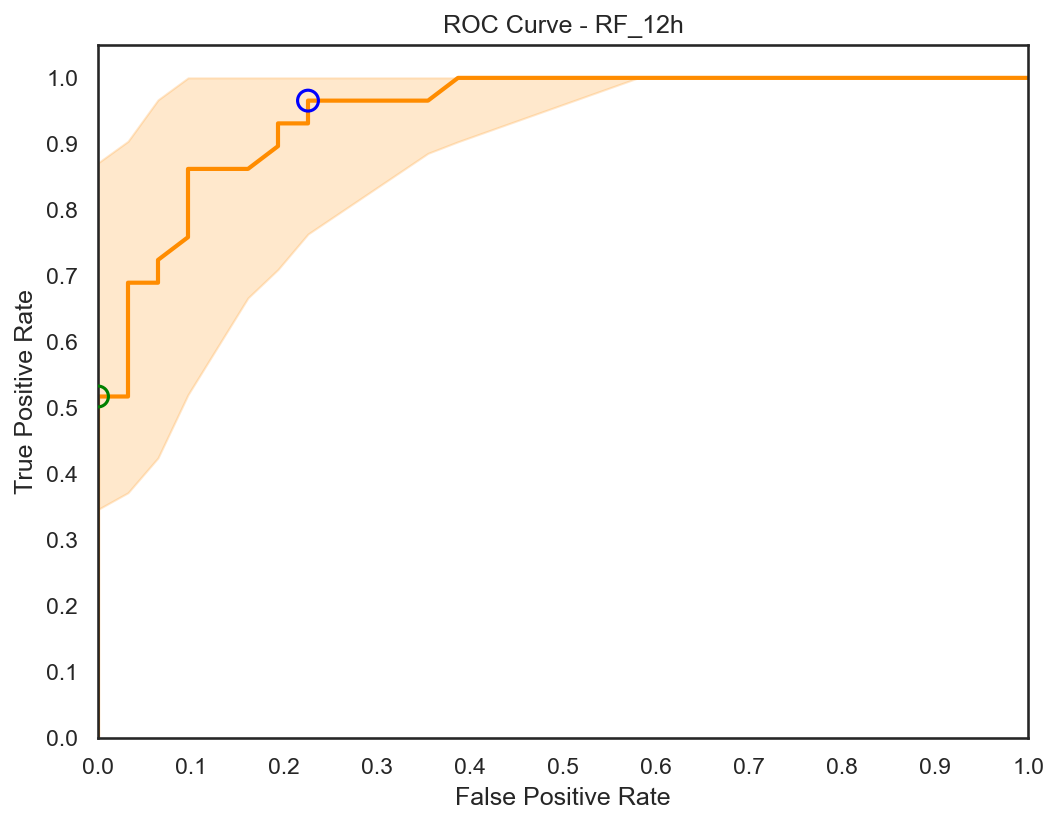
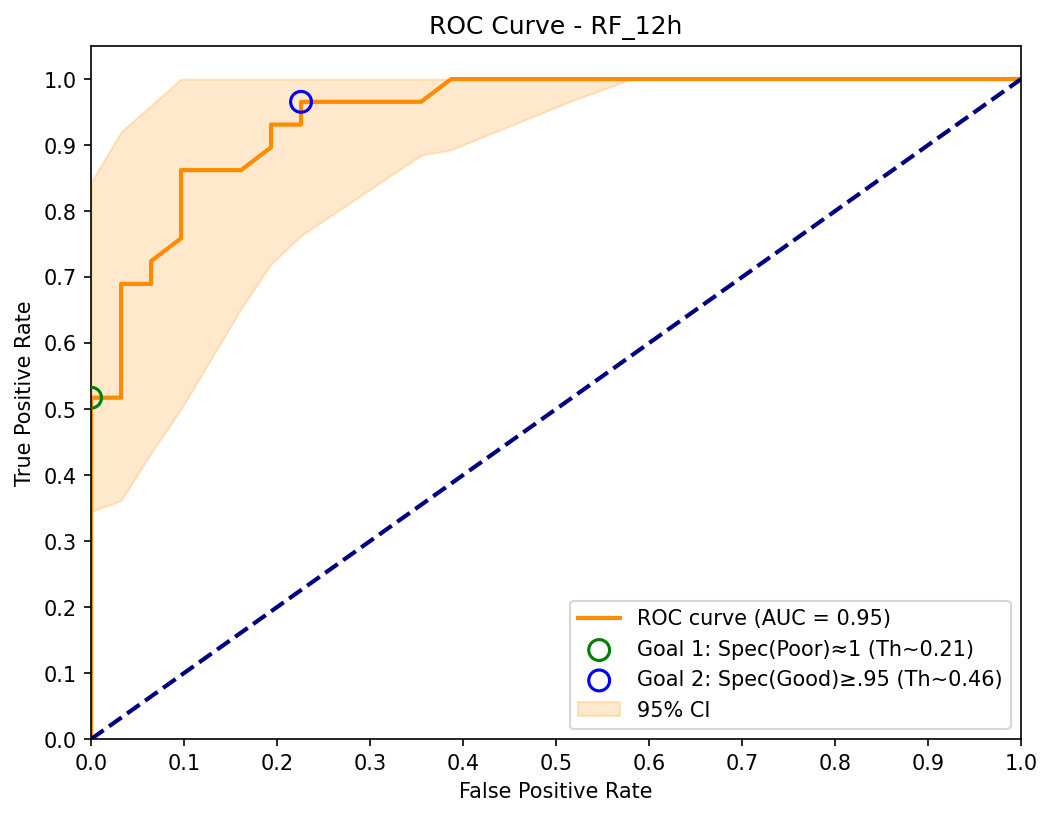
corrected predictions

diff --git a/Utils/analysis.py b/Utils/analysis.py
@@ -63,7 +63,7 @@ class Analysis:
             logger.error(f"Error calculating confusion matrix: {e}")
             return None
 
-    def plot_confusion_matrix(self, thr, outcome):
+    def plot_confusion_matrix(self, thr, outcome, labels):
 
         # Plot confusion matrix at specific threshold with specific outcome
         y_scores = self.model.predict_proba(self.X_test)[:, 1]
@@ -72,13 +72,11 @@ class Analysis:
         tn, fp, fn, tp = cm.ravel()
         logger.info(f"Confusion Matrix with thr {thr}: [[TN(Good)={tn}, FP(Good)={fp}], [FN(Good)={fn}, TP(Good)={tp}]]")
 
-        labels = ["Good", "Poor"]
-
         cm = np.array([[tp, fp],
                          [fn, tn]])
 
-        cell_text_labels = [["TP", "FP"],
-                                    ["FN", "TN"]]
+        cell_text_labels = [["TP", "FN"],
+                                    ["FP", "TN"]]
 
         colors = ["green", "red", "red", "green"]
         custom_cmap = ListedColormap(colors)
@@ -107,10 +105,10 @@ class Analysis:
                                 fontsize=25,
                                 fontweight='bold')
 
-        #plt.xlabel("True Label", fontsize=12, fontweight='bold')
-        #plt.ylabel("Predicted Label", fontsize=12, fontweight='bold')
+        plt.xlabel("Predicted Label", fontsize=12, fontweight='bold')
+        plt.ylabel("True Label", fontsize=12, fontweight='bold')
         title_text = f"Confusion Matrix with Threshold $\\mathbf{{{thr:.2f}}}$ for $\\mathbf{{{outcome}}}$ outcome - {MODEL_NAME}"
-        #plt.title(title_text, pad=45, fontsize=12)
+        plt.title(title_text, pad=45, fontsize=12)
 
         cm_path = os.path.join(OUTPUT_PATH, f"cm_with_thr_{thr:.2f}_{MODEL_NAME}.png")
         plt.savefig(cm_path, dpi=300, bbox_inches="tight")
@@ -168,7 +166,7 @@ class Analysis:
         except Exception as e:
              logger.error(f"Error calculating feature importance: {e}")
 
-    def find_specificity(self, fpr, tpr, thresholds, target_fpr=None):
+    def find_specificity_poor(self, fpr, tpr, thresholds, target_fpr=None):
 
         # Find the specificity
         best_fpr = -1.0
@@ -182,12 +180,14 @@ class Analysis:
                 best_fpr = fpr[best_idx]
                 best_tpr = tpr[best_idx]
                 best_threshold = thresholds[best_idx]
+            
+        best_threshold = 1 - best_threshold
 
         return best_threshold, best_fpr, best_tpr
+    
+    def find_specificity_good(self, fpr, tpr, thresholds, target_tpr=None):
 
-    def find_recall(self, fpr, tpr, thresholds, target_tpr=None):
-
-        # Find the recall
+        # Find the specificity
         best_fpr = -1.0
         best_tpr = -1.0
         best_idx = -1
@@ -195,7 +195,7 @@ class Analysis:
         if target_tpr is not None:
             indices = np.where(tpr >= target_tpr)[0]
             if len(indices) > 0:
-                best_idx = indices[np.argmin(fpr[indices])]
+                best_idx = indices[np.argmin(tpr[indices])]
                 best_fpr = fpr[best_idx]
                 best_tpr = tpr[best_idx]
                 best_threshold = thresholds[best_idx]
@@ -241,17 +241,18 @@ class Analysis:
             # Specificity(Poor) = 1.0, minimize FPR
             logger.info("-" * 20)
             logger.info("Analysis for Specificity = 1.0 or FPR = 0.0")
-            thresh_poor, fpr_poor, tpr_poor = self.find_specificity(fpr, tpr, thresholds, target_fpr=0)
+            thresh_poor, fpr_poor, tpr_poor = self.find_specificity_poor(fpr, tpr, thresholds, target_fpr=0)
+            print(thresh_poor)
 
             # Specificity(good) >= 0.95, TPR >= 0.95 
             logger.info("-" * 20)
             logger.info("Analysis for Specificity(good) >= 0.95")
-            thresh_good, fpr_good, tpr_good = self.find_recall(fpr, tpr, thresholds, target_tpr=0.95)
+            thresh_good, fpr_good, tpr_good = self.find_specificity_good(fpr, tpr, thresholds, target_tpr=0.95)
 
             # Create the figure
             fig, ax = plt.subplots(figsize=(8, 6))
             ax.plot(fpr, tpr, color='darkorange', lw=2, label=f'ROC curve (AUC = {roc_auc:.2f})')
-            #ax.plot([0, 1], [0, 1], color='navy', lw=2, linestyle='--')
+            ax.plot([0, 1], [0, 1], color='navy', lw=2, linestyle='--')
             ax.scatter(fpr_poor, tpr_poor, s=100, facecolors='none', edgecolors='green', zorder=5, linewidth=1.5,
                     label=f'Goal 1: Spec(Poor)≈1 (Th~{thresh_poor:.2f})')
             ax.scatter(fpr_good, tpr_good, s=100, facecolors='none', edgecolors='blue', zorder=5, linewidth=1.5,
@@ -268,7 +269,7 @@ class Analysis:
             ax.set_xlabel('False Positive Rate')
             ax.set_ylabel('True Positive Rate')
             ax.set_title(f'ROC Curve - {MODEL_NAME}')
-            #ax.legend(loc="lower right")
+            ax.legend(loc="lower right")
             ax.grid(False)
 
             roc_save_path = os.path.join(OUTPUT_PATH, f"roc_curve_{MODEL_NAME}.png")

diff --git a/main.py b/main.py
@@ -80,7 +80,7 @@ if __name__ == "__main__":
     analysis_model.confusion_matrix()
 
     # Feature importance analysis
-    analysis_model.feature_importance()
+    #analysis_model.feature_importance()
 
     # ROC curve analysis
     thres_poor,thres_good = analysis_model.roc_curve_analysis()
@@ -90,8 +90,8 @@ if __name__ == "__main__":
     acc = analysis_model.accuracy_in_thr(thres_poor)
 
     # Saving confusion matrix
-    analysis_model.plot_confusion_matrix(thres_good, "good")
-    analysis_model.plot_confusion_matrix(thres_poor, "poor")
+    analysis_model.plot_confusion_matrix(thres_good, "good", labels = ["Good", "Not good"])
+    analysis_model.plot_confusion_matrix(thres_poor, "poor", labels = ["Poor", "Not poor "])
     logger.info("Model analyzed")
     logger.info("-" * 50)
     logger.info("Execution finished")
